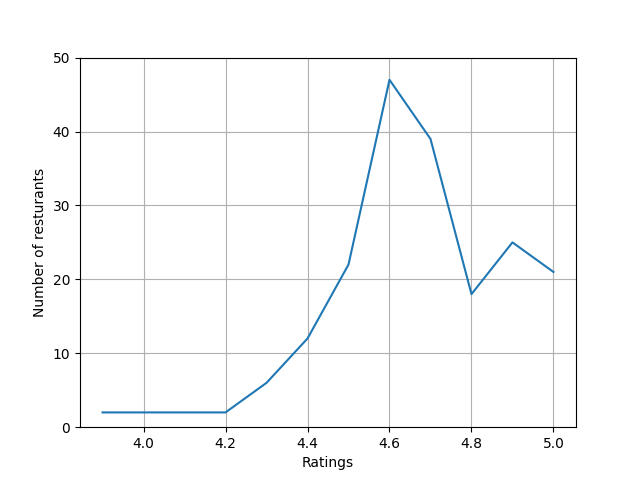
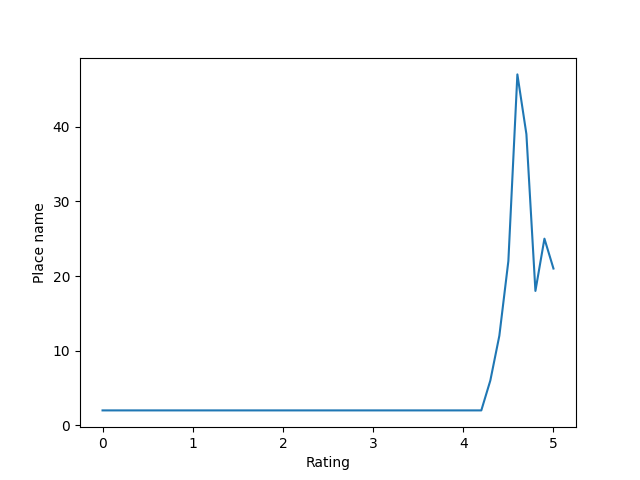
Importing correct file to question 2

diff --git a/question2.py b/question2.py
@@ -1,21 +1,17 @@
-# comment code
 # create visual better
 import pandas as pd
 import matplotlib.pyplot as plt
 import seaborn as sns
 # Reading file to dataframe
-coffee = pd.read_csv('coffee.csv')
+coffee = pd.read_csv('coffee_clean.csv')
 
-print(coffee.columns)
-
+# to count how many stores go each potential rating
 stores_grouped_rating = coffee.groupby('Rating')['Place name'].count()
 
+# To see as a table
 print(stores_grouped_rating)
 
-sns.lineplot(x=stores_grouped_rating.index, y=stores_grouped_rating.values)
-plt.xlabel('Ratings')
-plt.ylabel('Number of resturants')
-plt.ylim(0,50)
-plt.grid()
+# create and save a graph
+sns.lineplot(data=stores_grouped_rating, markers=True)
 plt.savefig('question2_visual.png', format='png')
 

diff --git a/question3.py b/question3.py
@@ -1,0 +1,9 @@
+# create visual better
+import pandas as pd
+import matplotlib.pyplot as plt
+import seaborn as sns
+# Reading file to dataframe
+coffee = pd.read_csv('coffee_clean.csv')
+
+# to count how many stores go each potential rating
+stores_grouped_rating = coffee.groupby('Rating')['Place name'].count()

diff --git a/question1.py b/question1.py
@@ -31,3 +31,5 @@ coffee_clean = coffee.fillna(cols_to_clean)
 
 
 print(coffee_clean.info())
+
+coffee_clean.to_csv('coffee_clean.csv')
